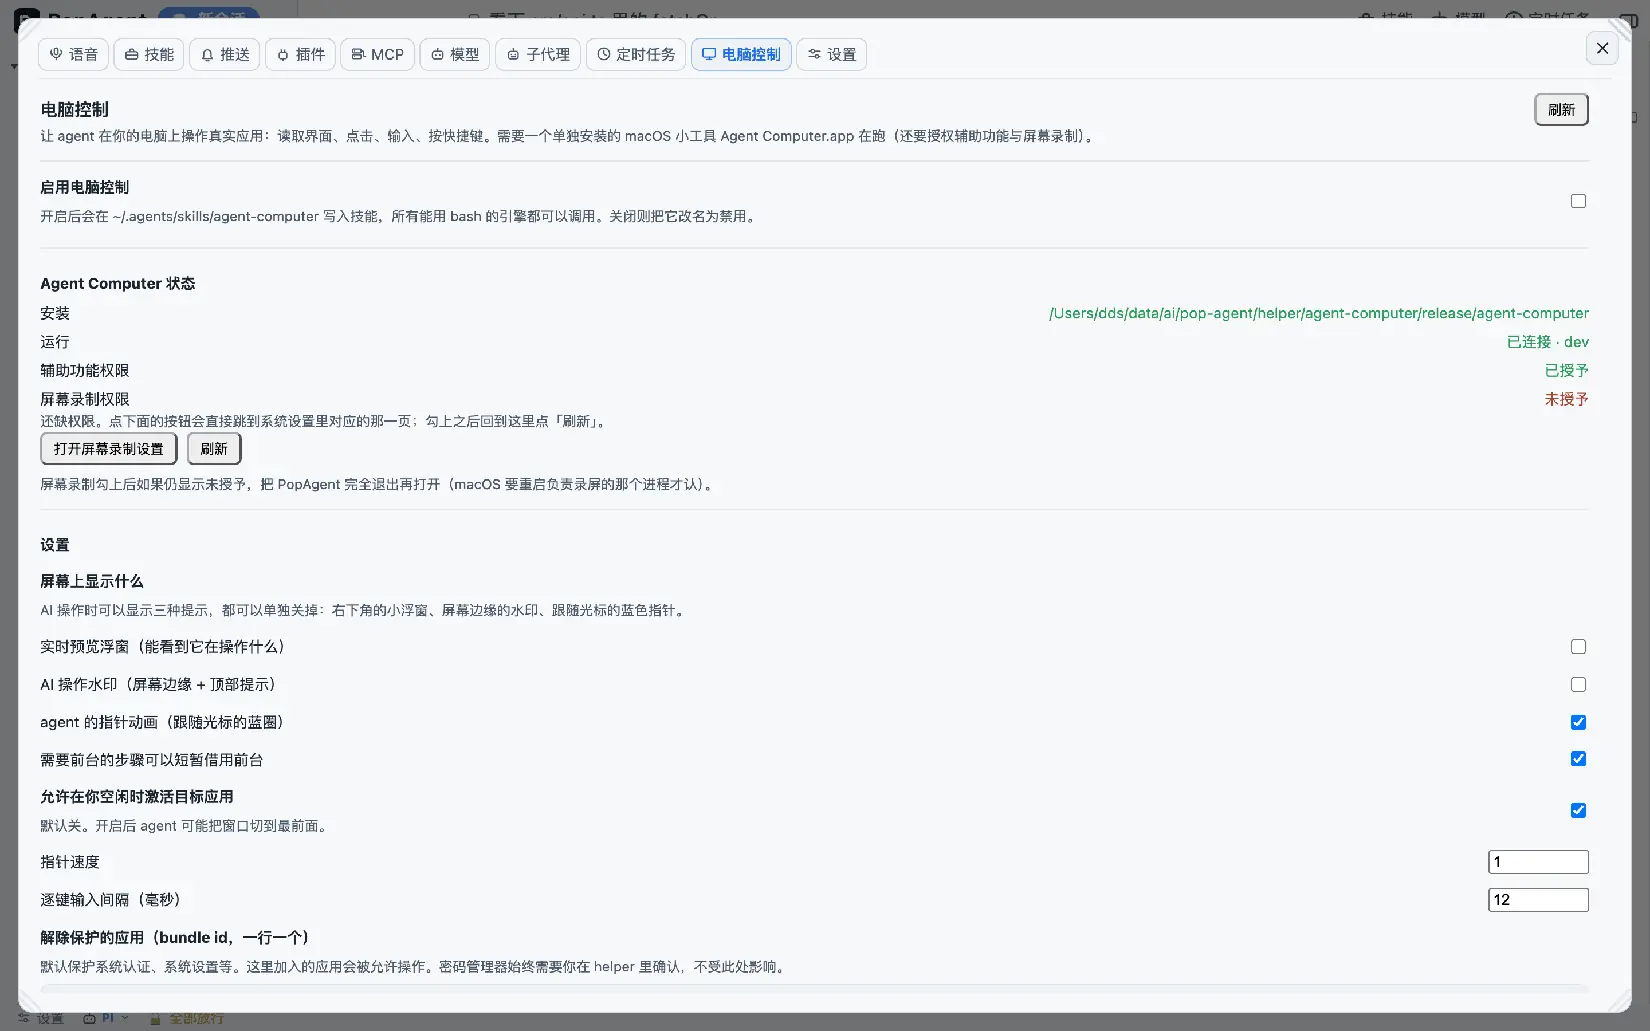
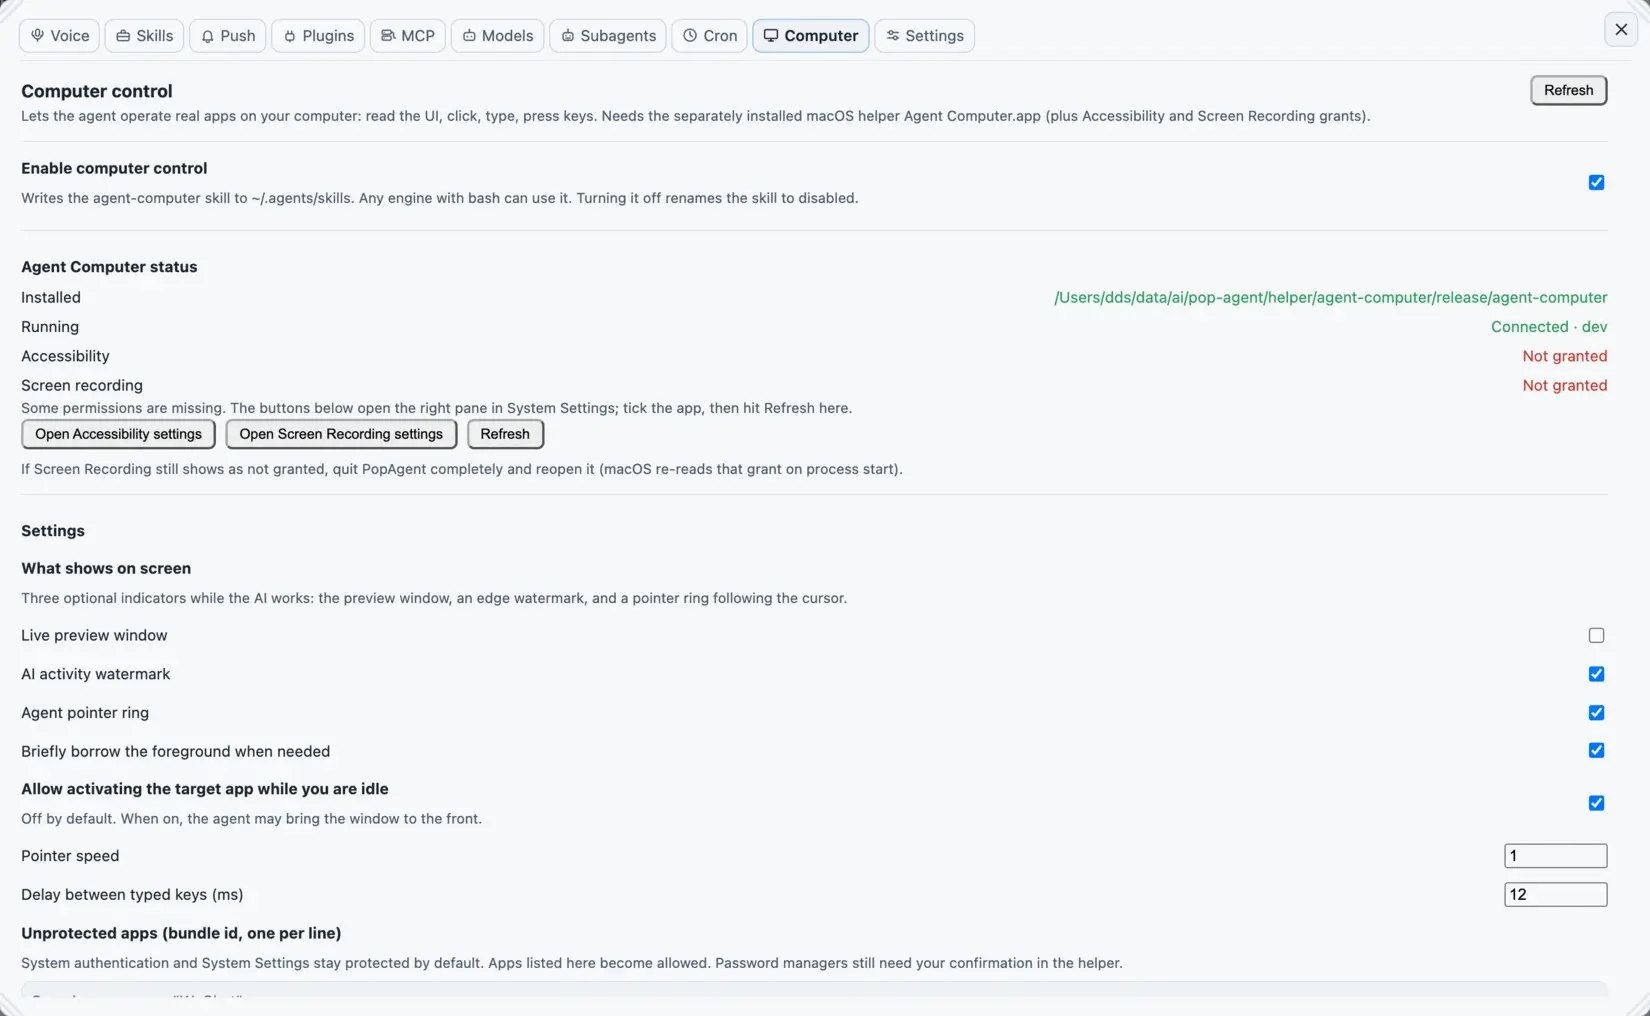
docs(site): 英文站六件能力的配图换成英文界面
assets/en/*.webp 一直是 assets/zh/*.webp 的逐字节拷贝，英文站看到的是中文界面。
这次从新拍的英文整窗图（docs/screenshots/en/*.png，1440x900 @2x）重新裁了七张：

- 面板类（voice / cron / computer / push / remote）：只裁面板框，2812x1732+34+34，
  缩到 1650 宽（实际 1650x1016），WebP q72
- canvas：整窗，1650x1031
- mobile：整屏，1050x2272

index.html 里这五张的 height 从 1031 改成 1016（属性要跟真实文件尺寸一致，
否则会被当成固定高度参与排版）。zh.html 与 assets/zh/ 一个字没动。

还没换的英文图（answer / annotations / diff / hero / mcp / mention-crop /
mobile-drawer / models / overview / plugins / settings / skills / slash / webmark /
agents）目前仍等于中文那份 —— 它们要新的英文界面截图，不是裁切能解决的。

Changed region(s): [[0.0, 0.0, 1.0, 1.0]]

diff --git a/docs/site/index.html b/docs/site/index.html
@@ -209,21 +209,21 @@ var _hmt = _hmt || [];
               <div><span class="tick">✓</span><span>Want one consistent voice? Switch to <code>edge</code> (Microsoft) or your own <code>kokoro</code> / <code>qwen3</code>.</span></div>
             </div>
           </div>
-          <div class="shot"><img src="assets/en/voice.webp" width="1650" height="1031" alt="Voice panel: four event cues and local TTS settings" loading="lazy" data-zoom /></div>
+          <div class="shot"><img src="assets/en/voice.webp" width="1650" height="1016" alt="Voice panel: four event cues and local TTS settings" loading="lazy" data-zoom /></div>
         </article>
 
         <article class="card reveal">
           <h3>② Scheduled tasks: say it once, it runs every morning</h3>
           <p>A task = a prompt + a cron expression + a timezone. Text tasks go straight to the model with no repo access; agent tasks run a real turn in the workspace. Say "check this repo every morning at 9" in chat and the agent creates it for you.</p>
           <p class="mini">Unattended means unattended: <b>writes are denied by default</b> unless you tick "allow file changes"; a turn that times out is recorded as failed — a half answer is never reported as success.</p>
-          <div class="shot"><img src="assets/en/cron.webp" width="1650" height="1031" alt="Scheduled tasks panel: task list, cron expression and next run" loading="lazy" data-zoom /></div>
+          <div class="shot"><img src="assets/en/cron.webp" width="1650" height="1016" alt="Scheduled tasks panel: task list, cron expression and next run" loading="lazy" data-zoom /></div>
         </article>
 
         <article class="card reveal">
           <h3>③ Computer control: the agent actually drives your Mac</h3>
           <p>Not screenshot-and-guess: it reads the macOS <b>accessibility (AX) element tree</b> and clicks by element id. It can click, type, paste (restoring your previous clipboard afterwards), send shortcuts and run menu paths.</p>
           <p class="mini">Password fields are never filled in for you; system authentication and protected apps stay off-limits. The master switch is the skill itself, so <b>any engine with bash</b> can use it.</p>
-          <div class="shot"><img src="assets/en/computer.webp" width="1650" height="1031" alt="Computer control panel: helper status and system permissions" loading="lazy" data-zoom /></div>
+          <div class="shot"><img src="assets/en/computer.webp" width="1650" height="1016" alt="Computer control panel: helper status and system permissions" loading="lazy" data-zoom /></div>
         </article>
 
         <article class="card reveal">
@@ -236,14 +236,14 @@ var _hmt = _hmt || [];
         <article class="card reveal">
           <h3>⑤ Push to your phone: it buzzes when a turn ends</h3>
           <p>One push per finished turn: the title is the project, the body is the session, failures get ❌ and interruptions ⏹. Web Push (VAPID) with <b>no third-party service</b>; keys are generated on first start. Multiple devices, test push, clear all.</p>
-          <div class="shot"><img src="assets/en/push.webp" width="1650" height="1031" alt="Push panel: subscription state and multiple devices" loading="lazy" data-zoom /></div>
+          <div class="shot"><img src="assets/en/push.webp" width="1650" height="1016" alt="Push panel: subscription state and multiple devices" loading="lazy" data-zoom /></div>
         </article>
 
         <article class="card reveal">
           <h3>⑥ Remote access: keep working from your phone, elsewhere</h3>
           <p><code>pop -H 0.0.0.0</code> and you can open it from a phone or another computer. The password must be <b>set on the machine itself</b> (remote clients may not create one — otherwise whoever finds the port first takes over); three wrong passwords pause login for 30 minutes.</p>
           <p class="mini">The phone gets a real phone layout: sidebar becomes a drawer, icons only up top, an 18px composer so iOS does not zoom, the right pane becomes a full-screen second page.</p>
-          <div class="shot"><img src="assets/en/remote.webp" width="1650" height="1031" alt="Settings → Remote: access password, login protection and login activity" loading="lazy" data-zoom /></div>
+          <div class="shot"><img src="assets/en/remote.webp" width="1650" height="1016" alt="Settings → Remote: access password, login protection and login activity" loading="lazy" data-zoom /></div>
         </article>
       </div>
     </div>
@@ -334,7 +334,7 @@ var _hmt = _hmt || [];
           <div class="body"><h4>Plugins</h4><p>Plugins are pi packages: npm, git or local directories, in four states <code>loaded · installed · missing · disabled</code>. Disabling doesn't delete files.</p></div>
         </article>
         <article class="panel-card reveal">
-          <img src="assets/en/push.webp" width="1650" height="1031" alt="Push panel: local push state, target devices and a test push" loading="lazy" data-zoom />
+          <img src="assets/en/push.webp" width="1650" height="1016" alt="Push panel: local push state, target devices and a test push" loading="lazy" data-zoom />
           <div class="body"><h4>Push &amp; voice</h4><p>One push when a turn ends (prefixed ❌ on failure, ⏹ on interrupt) that opens the session; four event sounds plus offline local TTS.</p></div>
         </article>
       </div>
